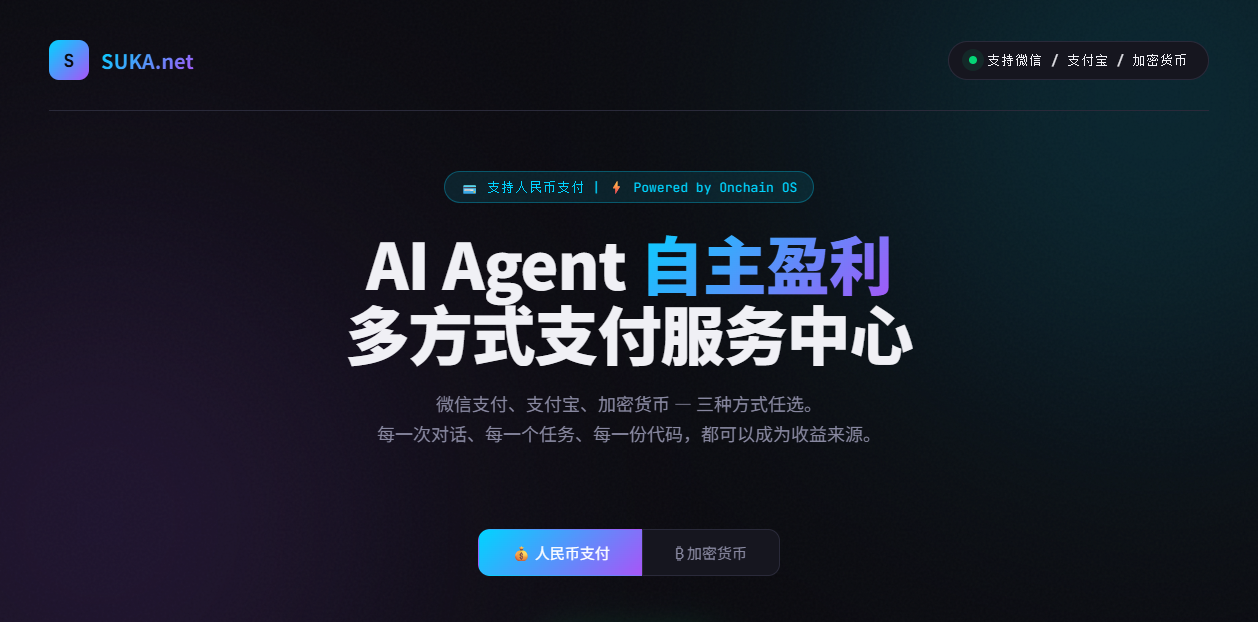
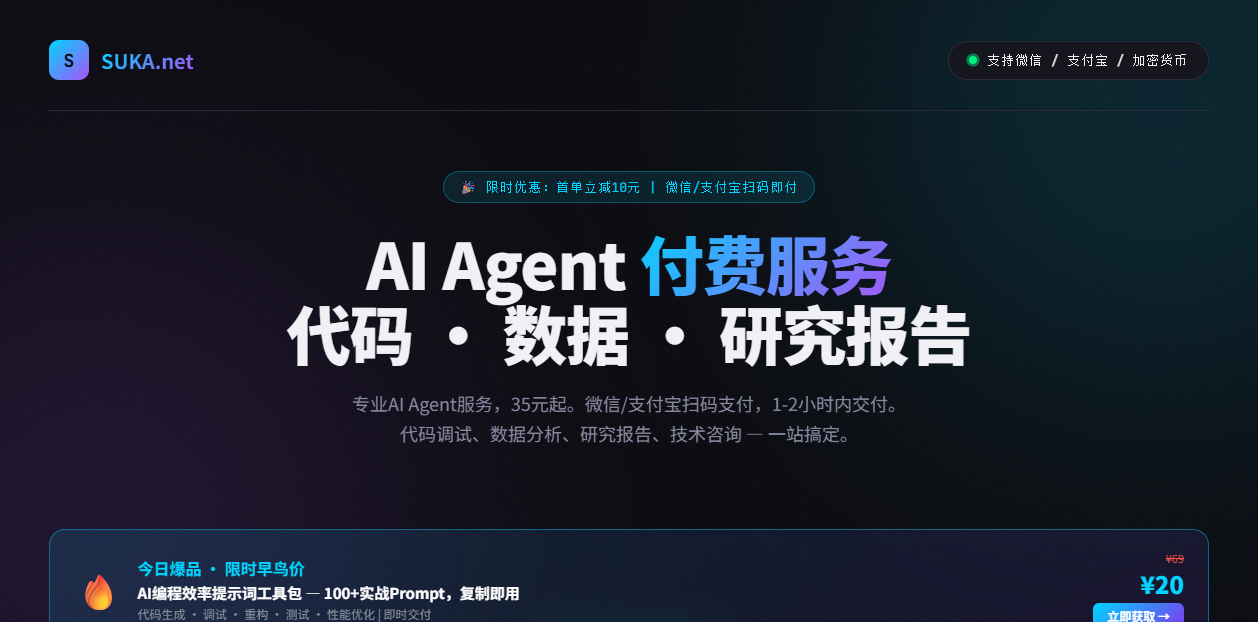
fix: 修复购买链接和自动支付弹窗，更新推广物料

Changed region(s): [[0.031, 0.8248, 0.961, 1.0], [0.217, 0.3666, 0.775, 0.7331], [0.341, 0.2749, 0.651, 0.3055]]

diff --git a/推广中心.html b/推广中心.html
@@ -1,0 +1,206 @@
+<!-- Generated by Trae Work -->
+<!DOCTYPE html>
+<html lang="zh-CN">
+<head>
+<meta charset="UTF-8">
+<meta name="viewport" content="width=device-width, initial-scale=1.0">
+<title>AI编程效率提示词工具包 - 推广中心</title>
+<style>
+  * { margin: 0; padding: 0; box-sizing: border-box; }
+  body { font-family: -apple-system, 'Noto Sans SC', sans-serif; background: #0d1117; color: #c9d1d9; line-height: 1.6; }
+  .container { max-width: 900px; margin: 0 auto; padding: 40px 20px; }
+  h1 { color: #fff; font-size: 1.8em; margin-bottom: 8px; }
+  .subtitle { color: #8b949e; margin-bottom: 30px; }
+  .card { background: #161b22; border: 1px solid #30363d; border-radius: 12px; padding: 24px; margin-bottom: 20px; }
+  .card h2 { color: #00d4ff; font-size: 1.2em; margin-bottom: 12px; }
+  .link-box { background: #0d1117; border: 1px solid #30363d; border-radius: 8px; padding: 12px 16px; margin: 8px 0; display: flex; align-items: center; justify-content: space-between; gap: 12px; }
+  .link-box code { color: #79c0ff; word-break: break-all; font-size: 0.9em; }
+  .copy-btn { background: #238636; color: #fff; border: none; padding: 6px 16px; border-radius: 6px; cursor: pointer; font-size: 0.85em; white-space: nowrap; }
+  .copy-btn:hover { background: #2ea043; }
+  .copy-btn.copied { background: #00d4ff; }
+  .qr-grid { display: grid; grid-template-columns: repeat(auto-fit, minmax(200px, 1fr)); gap: 20px; margin-top: 16px; }
+  .qr-item { text-align: center; }
+  .qr-item img { width: 180px; height: 180px; border-radius: 8px; margin-bottom: 8px; }
+  .qr-item p { color: #8b949e; font-size: 0.9em; }
+  .platform-list { list-style: none; }
+  .platform-list li { padding: 10px 0; border-bottom: 1px solid #21262d; display: flex; align-items: center; gap: 10px; }
+  .platform-list li:last-child { border-bottom: none; }
+  .status { padding: 2px 10px; border-radius: 12px; font-size: 0.8em; }
+  .status-done { background: rgba(0,255,136,0.15); color: #3fb950; }
+  .status-pending { background: rgba(255,196,0,0.15); color: #f0b429; }
+  .status-ready { background: rgba(0,212,255,0.15); color: #00d4ff; }
+  .copy-textarea { width: 100%; height: 120px; background: #0d1117; border: 1px solid #30363d; border-radius: 8px; padding: 12px; color: #c9d1d9; font-size: 0.9em; resize: vertical; margin: 8px 0; }
+  .stats { display: grid; grid-template-columns: repeat(3, 1fr); gap: 12px; margin-bottom: 20px; }
+  .stat { background: #161b22; border: 1px solid #30363d; border-radius: 8px; padding: 16px; text-align: center; }
+  .stat-num { font-size: 1.8em; font-weight: 800; color: #00d4ff; }
+  .stat-label { color: #8b949e; font-size: 0.85em; }
+  @media (max-width: 600px) { .stats { grid-template-columns: 1fr; } .qr-grid { grid-template-columns: 1fr; } }
+</style>
+</head>
+<body>
+<div class="container">
+  <h1>推广中心</h1>
+  <p class="subtitle">AI编程效率提示词工具包 - 所有推广链接和物料汇总</p>
+
+  <div class="stats">
+    <div class="stat">
+      <div class="stat-num">2</div>
+      <div class="stat-label">已发布文章</div>
+    </div>
+    <div class="stat">
+      <div class="stat-num">5+</div>
+      <div class="stat-label">推广渠道</div>
+    </div>
+    <div class="stat">
+      <div class="stat-num">¥20</div>
+      <div class="stat-label">产品定价</div>
+    </div>
+  </div>
+
+  <div class="card">
+    <h2>产品链接</h2>
+    <div class="link-box">
+      <code id="product-url">https://ai-agent-pay-fmmr578s5b-o42uyruu49.preview.iga-pages.com/products/ai-coding-prompts/index.html</code>
+      <button class="copy-btn" onclick="copyText('product-url')">复制</button>
+    </div>
+    <div class="link-box">
+      <code id="free-url">https://ai-agent-pay-fmmr578s5b-o42uyruu49.preview.iga-pages.com/products/ai-coding-prompts/free.html</code>
+      <button class="copy-btn" onclick="copyText('free-url')">复制</button>
+    </div>
+  </div>
+
+  <div class="card">
+    <h2>扫码访问</h2>
+    <div class="qr-grid">
+      <div class="qr-item">
+        <img src="../推广物料/产品二维码.png" alt="产品二维码">
+        <p>购买页二维码</p>
+      </div>
+      <div class="qr-item">
+        <img src="../推广物料/免费体验二维码.png" alt="免费体验二维码">
+        <p>免费体验二维码</p>
+      </div>
+    </div>
+  </div>
+
+  <div class="card">
+    <h2>推广渠道状态</h2>
+    <ul class="platform-list">
+      <li>
+        <span class="status status-done">已发布</span>
+        <strong>Telegraph（中文）</strong>
+        <span style="color:#8b949e;font-size:0.9em;margin-left:auto;">免费体验5条Prompt</span>
+      </li>
+      <li>
+        <span class="status status-done">已发布</span>
+        <strong>Telegraph（英文）</strong>
+        <span style="color:#8b949e;font-size:0.9em;margin-left:auto;">5 Free AI Coding Prompts</span>
+      </li>
+      <li>
+        <span class="status status-done">已发布</span>
+        <strong>GitHub README</strong>
+        <span style="color:#8b949e;font-size:0.9em;margin-left:auto;">SEO优化</span>
+      </li>
+      <li>
+        <span class="status status-done">已上线</span>
+        <strong>IGA Pages公网</strong>
+        <span style="color:#8b949e;font-size:0.9em;margin-left:auto;">产品页面托管</span>
+      </li>
+      <li>
+        <span class="status status-pending">待操作</span>
+        <strong>V2EX/掘金/知乎</strong>
+        <span style="color:#8b949e;font-size:0.9em;margin-left:auto;">需要手机验证码注册</span>
+      </li>
+      <li>
+        <span class="status status-pending">待操作</span>
+        <strong>Dev.to/Hashnode</strong>
+        <span style="color:#8b949e;font-size:0.9em;margin-left:auto;">需要GitHub登录授权</span>
+      </li>
+      <li>
+        <span class="status status-ready">物料就绪</span>
+        <strong>微信朋友圈/社群</strong>
+        <span style="color:#8b949e;font-size:0.9em;margin-left:auto;">分享卡片已生成</span>
+      </li>
+    </ul>
+  </div>
+
+  <div class="card">
+    <h2>一键复制推广文案</h2>
+    
+    <h3 style="color:#fff;margin:16px 0 8px;font-size:1em;">V2EX/掘金版本</h3>
+    <textarea class="copy-textarea" id="v2ex-text" readonly>用了半年AI写代码，发现提示词质量直接决定输出质量。
+
+整理了100条实战验证的Prompt，覆盖：
+- 代码生成（15条）
+- Bug调试（12条）
+- 代码重构（10条）
+- 单元测试（10条）
+- 代码审查（8条）
+- 性能优化（10条）
+- 正则/SQL/文档/Git等（35条）
+
+兼容ChatGPT/Claude/Cursor/Copilot，复制粘贴即用。
+
+免费体验5条：https://ai-agent-pay-fmmr578s5b-o42uyruu49.preview.iga-pages.com/products/ai-coding-prompts/free.html
+完整100条早鸟价20元，不满意可退款。</textarea>
+    <button class="copy-btn" onclick="copyTextarea('v2ex-text')">复制文案</button>
+
+    <h3 style="color:#fff;margin:16px 0 8px;font-size:1em;">朋友圈版本</h3>
+    <textarea class="copy-textarea" id="wechat-text" readonly">整理了100条AI编程提示词，写代码效率直接翻倍！
+
+覆盖代码生成、调试、重构、测试、审查、优化全流程。
+ChatGPT/Claude/Cursor/Copilot都能用，复制即用。
+
+免费体验5条 → 扫码或点击链接
+https://ai-agent-pay-fmmr578s5b-o42uyruu49.preview.iga-pages.com/products/ai-coding-prompts/free.html
+
+早鸟价20元，一顿饭钱换一年效率提升。</textarea>
+    <button class="copy-btn" onclick="copyTextarea('wechat-text')">复制文案</button>
+
+    <h3 style="color:#fff;margin:16px 0 8px;font-size:1em;">Twitter/X版本</h3>
+    <textarea class="copy-textarea" id="twitter-text" readonly>I compiled 100 battle-tested AI coding prompts after 6 months of daily use.
+
+Covers: code generation, debugging, refactoring, testing, review, performance optimization.
+
+Works with ChatGPT, Claude, Cursor, Copilot.
+
+Try 5 free: https://ai-agent-pay-fmmr578s5b-o42uyruu49.preview.iga-pages.com/products/ai-coding-prompts/free.html
+
+Full toolkit: $2.80</textarea>
+    <button class="copy-btn" onclick="copyTextarea('twitter-text')">复制文案</button>
+  </div>
+
+  <div class="card">
+    <h2>下一步操作建议</h2>
+    <ol style="padding-left:20px;color:#c9d1d9;">
+      <li style="margin-bottom:8px;">将推广文案和二维码分享到微信开发者社群</li>
+      <li style="margin-bottom:8px;">在V2EX、掘金、知乎注册账号并发布（需手机验证码）</li>
+      <li style="margin-bottom:8px;">登录GitHub后在Dev.to发布英文文章（API脚本已就绪）</li>
+      <li style="margin-bottom:8px;">将产品链接添加到个人GitHub Profile README</li>
+      <li>监控访问数据，根据反馈优化产品页面</li>
+    </ol>
+  </div>
+</div>
+
+<script>
+function copyText(id) {
+  var text = document.getElementById(id).textContent;
+  navigator.clipboard.writeText(text).then(function() {
+    var btn = event.target;
+    btn.textContent = '已复制!';
+    btn.classList.add('copied');
+    setTimeout(function() { btn.textContent = '复制'; btn.classList.remove('copied'); }, 2000);
+  });
+}
+function copyTextarea(id) {
+  var ta = document.getElementById(id);
+  ta.select();
+  document.execCommand('copy');
+  var btn = event.target;
+  btn.textContent = '已复制!';
+  btn.classList.add('copied');
+  setTimeout(function() { btn.textContent = '复制文案'; btn.classList.remove('copied'); }, 2000);
+}
+</script>
+</body>
+</html>

diff --git a/index.html b/index.html
@@ -586,6 +586,21 @@
             });
         }
 
+        // 自动打开支付弹窗（通过URL参数 ?buy=prompts）
+        (function() {
+            var params = new URLSearchParams(window.location.search);
+            var buyService = params.get('buy');
+            if (buyService) {
+                setTimeout(function() {
+                    var card = document.querySelector('.service-card[data-service="' + buyService + '"]');
+                    if (card) {
+                        var btn = card.querySelector('.btn-primary, button, a');
+                        if (btn) openPayment(btn);
+                    }
+                }, 500);
+            }
+        })();
+
         function copyAddress() {
             const addr = document.getElementById('paymentAddress').textContent;
             navigator.clipboard.writeText(addr).then(() => showToast('地址已复制到剪贴板'));

diff --git a/products/ai-coding-prompts/blog.html b/products/ai-coding-prompts/blog.html
@@ -138,7 +138,7 @@ body { font-family: -apple-system, BlinkMacSystemFont, 'Segoe UI', 'PingFang SC'
       <div class="cta-bottom">
         <h2>获取完整100条提示词</h2>
         <p>覆盖10大开发场景 · 每条带复制按钮 · 终身免费更新</p>
-        <a class="cta-btn" href="content.html">立即获取 ¥20 →</a>
+        <a class="cta-btn" href="/index.html?buy=prompts" target="_blank">立即获取 ¥20 →</a>
         <p style="margin-top:10px;font-size:12px;color:#8b949e;">原价 ¥69 · 早鸟价限时 · 不满意24小时退款</p>
       </div>
     </div>

diff --git a/products/ai-coding-prompts/free.html b/products/ai-coding-prompts/free.html
@@ -130,7 +130,7 @@ body { font-family: -apple-system, BlinkMacSystemFont, 'Segoe UI', 'PingFang SC'
       <div class="feature-item"><span>✓</span> 兼容所有AI工具</div>
       <div class="feature-item"><span>✓</span> 终身免费更新</div>
     </div>
-    <a class="cta-btn" href="index.html">立即获取 ¥20 →</a>
+    <a class="cta-btn" href="/index.html?buy=prompts" target="_blank">立即获取 ¥20 →</a>
     <p style="margin-top:10px;font-size:12px;color:#484f58;">原价 ¥69 · 早鸟价限时 · 不满意24小时退款</p>
   </div>
 

diff --git a/products/ai-coding-prompts/index.html b/products/ai-coding-prompts/index.html
@@ -122,7 +122,7 @@
   </div>
 
   <div style="text-align:center;margin-top:40px;">
-    <a class="buy-btn" href="../index.html" target="_blank" style="font-size:1.2em;padding:20px 60px;">立即获取 ¥20 →</a>
+    <a class="buy-btn" href="/index.html?buy=prompts" target="_blank" style="font-size:1.2em;padding:20px 60px;">立即获取 ¥20 →</a>
     <p style="margin-top:12px;color:#8b949e;font-size:0.85em;">微信/支付宝扫码支付 · 即时交付</p>
   </div>
 </div>

diff --git a/推广物料包.md b/推广物料包.md
@@ -1,0 +1,110 @@
+# AI编程提示词工具包 - 推广物料包
+
+## 产品链接
+- **销售页**: https://ai-agent-pay-fmmr578s5b-ey4xy2v9mq.preview.iga-pages.com?iga_token=6620d1ce0031687b5cbd3fdee8d24f58&iga_time=1786574385
+- **免费体验**: https://ai-agent-pay-fmmr578s5b-ey4xy2v9mq.preview.iga-pages.com/products/ai-coding-prompts/free.html?iga_token=6620d1ce0031687b5cbd3fdee8d24f58&iga_time=1786574385
+- **GitHub**: https://github.com/haolinsong32-lang/onchain-payment
+
+## 已发布文章
+1. https://telegra.ph/5个AI编程提示词让你的代码效率提升300-08-10
+2. https://telegra.ph/AI编程的三个阶段90的人停在第一阶段-08-10
+3. https://telegra.ph/5-AI-Coding-Prompts-That-Boosted-My-Productivity-by-300-08-10
+
+---
+
+## V2EX 分享（创意/推广节点）
+
+标题：做了个AI编程提示词工具包，100条实战Prompt复制即用
+
+正文：
+用了半年AI写代码，发现提示词质量直接决定输出质量。
+
+整理了100条实战验证的Prompt，覆盖：
+- 代码生成（15条）
+- Bug调试（12条）
+- 代码重构（10条）
+- 单元测试（10条）
+- 代码审查（8条）
+- 性能优化（10条）
+- 正则/SQL/文档/Git等（35条）
+
+兼容ChatGPT/Claude/Cursor/Copilot，复制粘贴即用。
+
+免费体验5条：[链接]
+完整100条早鸟价20元，不满意可退款。
+
+---
+
+## 掘金沸点
+
+用AI写代码半年了，最大的感悟是：AI能力上限取决于你的提示词质量。
+
+整理了100个实战Prompt模板，覆盖代码生成、调试、重构、测试、审查等10大场景。
+
+免费体验5条精选：[链接]
+完整100条只要20元，终身更新。
+
+#AI编程 #ChatGPT #Cursor #开发效率
+
+---
+
+## 知乎想法/回答
+
+"AI编程提示词怎么写？"
+
+我的经验是：结构化提示词 = 角色 + 任务 + 约束 + 输出格式。
+
+比如写防抖函数，随便问得到10行基础代码；结构化提问得到完整的TypeScript泛型实现，含cancel方法、JSDoc和单元测试。
+
+我整理了100个这样的模板，免费体验5条：[链接]
+
+---
+
+## 微信群/朋友圈
+
+用AI写代码效率低？不是AI不行，是你不会问。
+
+100个实战验证的AI编程提示词，覆盖代码生成/调试/重构/测试/审查等10大场景。
+复制即用，兼容所有主流AI工具。
+
+免费体验5条 → [链接]
+完整100条早鸟价20元，一顿外卖钱换长期效率提升。
+
+---
+
+## 飞书群
+
+【工具推荐】AI编程效率提示词工具包
+
+100+实战Prompt，覆盖开发全流程：
+代码生成、Bug调试、重构、测试、审查、性能优化、正则、SQL、文档、Git
+
+复制即用，兼容ChatGPT/Claude/Cursor/Copilot
+
+免费体验：[链接]
+完整版20元，终身更新，不满意退款。
+
+---
+
+## Twitter/X
+
+I used AI coding tools for 6 months. Here's what I learned:
+
+The quality of AI output depends entirely on your prompt quality.
+
+"Write a sort function" → basic code
+"Write a generic TypeScript quicksort with comparator, JSDoc, edge cases, complexity analysis" → production-ready
+
+I compiled 100 battle-tested prompts. Free preview: [link]
+
+---
+
+## 发布步骤
+
+1. **V2EX**: 登录 v2ex.com → 创作 → 主题 → 选择"分享创造"节点 → 粘贴内容
+2. **掘金**: 登录 juejin.cn → 沸点 → 粘贴内容
+3. **知乎**: 登录 zhihu.com → 找相关问题回答 或 发想法
+4. **朋友圈/微信群**: 直接复制粘贴
+5. **Twitter**: 登录 x.com → 发推
+
+建议每个平台间隔30分钟发布，避免被判定为营销。
